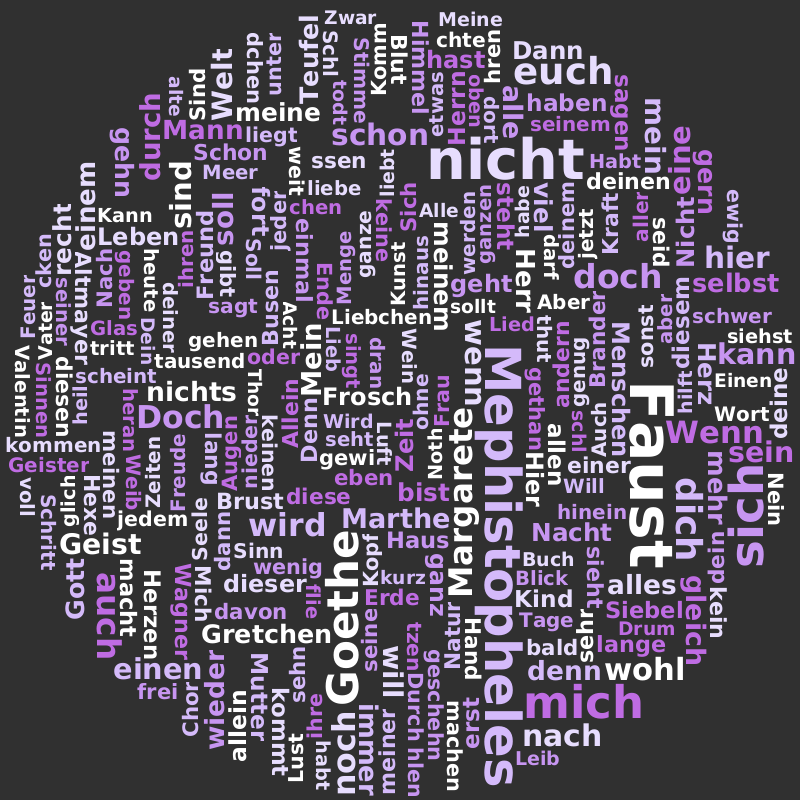
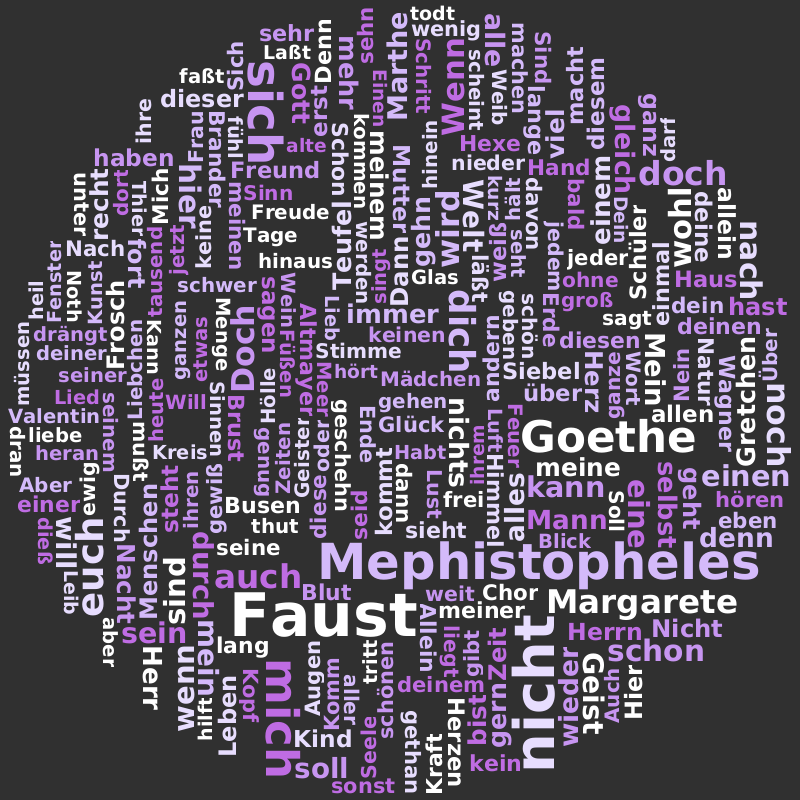
Finished batch

diff --git a/LambdaTagCloud/src/main/java/de/hs_mannheim/informatik/bdea/gruppe2/LambdaTagCloud/service/BatchService.java b/LambdaTagCloud/src/main/java/de/hs_mannheim/informatik/bdea/gruppe2/LambdaTagCloud/service/BatchService.java
@@ -22,105 +22,115 @@ import scala.Tuple2;
 @Service
 public class BatchService {
 
-    private final WordRepository wordRepository;
-    private final FileService fileService;
-    private final TagCloudService tagCloudService;
-    private final SparkSession sparkSession;
+        private final WordRepository wordRepository;
+        private final FileService fileService;
+        private final TagCloudService tagCloudService;
+        private final SparkSession sparkSession;
 
-    public BatchService(WordRepository wordRepository, FileService fileService, TagCloudService tagCloudService) {
-        this.wordRepository = wordRepository;
-        this.fileService = fileService;
-        this.tagCloudService = tagCloudService;
-        this.sparkSession = SparkSession.builder()
-                .master("local")
-                .appName("MongoSparkConnectorIntro")
-                .config("spark.mongodb.read.connection.uri",
-                        "mongodb://root:root@mongo/tagclouds.WordEntry?authSource=admin")
-                .config("spark.mongodb.write.connection.uri",
-                        "mongodb://root:root@mongo/tagclouds.WordEntry?authSource=admin")
-                .getOrCreate();
-    }
-
-    public List<Tuple2<String, Double>> runTfIdfJob(String filename) throws IOException {
-        Dataset<String> data = sparkSession.read().option("wholetext", "true").textFile(FileService.FILE_PATH + filename + ".txt");
-        final long amountOfFiles = this.fileService.getAllDocuments().length;
-        Dataset<Row> termFrequencyDataFrame = data
-                .flatMap((FlatMapFunction<String,String>) row -> {
-                        String[] words = row.split("\\W+");
-                        List<String> wordList = new ArrayList<>();
-                        for(String word : words) {
-                                if(word.length() >= 4)
-                                        wordList.add(word);
-                        }
-                        return wordList.iterator();
-                }, Encoders.STRING()).groupBy(functions.col("value")).count().orderBy(functions.desc("count")).limit(300).withColumnRenamed("value","name").withColumnRenamed("count", "termFrequency").toDF();
-
-        termFrequencyDataFrame.show();
-        Dataset<Row> documentFrequencies = sparkSession.read().format("mongodb").load();
-        // Creates default documentFrequency and name column if database is empty.
-        // This allows joining the data frames later.
-        if (!Arrays.asList(documentFrequencies.schema().fieldNames()).contains("name")) {
-            documentFrequencies = documentFrequencies.withColumn("name", functions.lit("default"))
-                    .withColumn("documentFrequency", functions.lit(1));
+        public BatchService(WordRepository wordRepository, FileService fileService, TagCloudService tagCloudService) {
+                this.wordRepository = wordRepository;
+                this.fileService = fileService;
+                this.tagCloudService = tagCloudService;
+                this.sparkSession = SparkSession.builder()
+                                .master("local")
+                                .appName("MongoSparkConnectorIntro")
+                                .config("spark.mongodb.read.connection.uri",
+                                                "mongodb://root:root@mongo/tagclouds.WordEntry?authSource=admin")
+                                .config("spark.mongodb.write.connection.uri",
+                                                "mongodb://root:root@mongo/tagclouds.WordEntry?authSource=admin")
+                                .getOrCreate();
         }
-        documentFrequencies.show();
-        // Join term frequencies and document frequencies and add document frequency 1 to
-        // all empty rows.
-        termFrequencyDataFrame = termFrequencyDataFrame.join(documentFrequencies, "name", "left_outer");
-        termFrequencyDataFrame = termFrequencyDataFrame.withColumn(
-                "documentFrequency",
-                functions.coalesce(termFrequencyDataFrame.col("documentFrequency"), functions.lit(1)));
 
-        // Calculate tf_idf with formula tfidf = (Log(amountOfDocuments /
-        // documentFrequency) + 1) * termFrequency
-        // This is called tf idf smooth.
-        Dataset<Row> termFrequencyDataFrameTfIdf = termFrequencyDataFrame.withColumn("tfIdf",
-                functions.log(functions.lit(amountOfFiles).divide(termFrequencyDataFrame.col("documentFrequency")))
-                        .plus(1)
-                        .multiply(termFrequencyDataFrame.col("termFrequency")));
-            
-        termFrequencyDataFrameTfIdf.show();
+        public List<Tuple2<String, Double>> runTfIdfJob(String filename) throws IOException {
+                Dataset<String> data = sparkSession.read().option("wholetext", "true")
+                                .textFile(FileService.FILE_PATH + filename + ".txt");
+                final long amountOfFiles = this.fileService.getAllDocuments().length;
+                Dataset<Row> termFrequencyDataFrame = data
+                                .flatMap((FlatMapFunction<String, String>) row -> {
+                                        // Split all words and allow only words with more than 3 characters
+                                        System.out.println(row);
+                                        String[] words = row.split("[^\\p{L}]+");
+                                        List<String> wordList = new ArrayList<>();
+                                        for (String word : words) {
+                                                if (word.length() >= 4)
+                                                        wordList.add(word);
+                                        }
+                                        return wordList.iterator();
+                                }, Encoders.STRING()).groupBy(functions.col("value")).count()
+                                .orderBy(functions.desc("count")).limit(300).withColumnRenamed("value", "name")
+                                .withColumnRenamed("count", "termFrequency").toDF();
 
-        return termFrequencyDataFrameTfIdf.select("name", "tfIdf")
-                .as(Encoders.tuple(Encoders.STRING(), Encoders.DOUBLE()))
-                .collectAsList();
-    }
+                termFrequencyDataFrame.show();
+                Dataset<Row> documentFrequencies = sparkSession.read().format("mongodb").load();
+                // Creates default documentFrequency and name column if database is empty.
+                // This allows joining the data frames later.
+                if (!Arrays.asList(documentFrequencies.schema().fieldNames()).contains("name")) {
+                        documentFrequencies = documentFrequencies.withColumn("name", functions.lit("default"))
+                                        .withColumn("documentFrequency", functions.lit(1));
+                }
+                documentFrequencies.show();
+                // Join term frequencies and document frequencies and add document frequency 1
+                // to
+                // all empty rows.
+                termFrequencyDataFrame = termFrequencyDataFrame.join(documentFrequencies, "name", "left_outer");
+                termFrequencyDataFrame = termFrequencyDataFrame.withColumn(
+                                "documentFrequency",
+                                functions.coalesce(termFrequencyDataFrame.col("documentFrequency"), functions.lit(1)));
 
-    public void calculateDocumentFrequency() throws IOException {
+                // Calculate tf_idf with formula tfidf = (Log(amountOfDocuments /
+                // documentFrequency) + 1) * termFrequency
+                // This is called tf idf smooth
+                Dataset<Row> termFrequencyDataFrameTfIdf = termFrequencyDataFrame.withColumn("tfIdf",
+                                functions.log(functions.lit(amountOfFiles)
+                                                .divide(termFrequencyDataFrame.col("documentFrequency")))
+                                                .plus(1)
+                                                .multiply(termFrequencyDataFrame.col("termFrequency")));
 
-        // Read all files as strings (wholetext is important here!)
-        Dataset<String> data = sparkSession.read().option("wholetext", "true").textFile("files/*.txt");
-        // Create DataSet which contains all document frequencies for each word grouped by word.
-        Dataset<Row> documentFrequencies = data
-                .flatMap((FlatMapFunction<String,String>) row -> {
-                        // Split all words and fill into set
-                        Set<String> set = new HashSet<>();
-                        String[] words = row.split("\\W+");
-                        for(String word : words) {
-                                set.add(word);
-                        }
-                        return set.iterator();
-                }, Encoders.STRING()).groupBy(functions.col("value")).count().toDF();
-        
-        documentFrequencies = documentFrequencies.withColumnRenamed("value", "name").withColumnRenamed("count", "documentFrequency");
-        documentFrequencies.show();
+                termFrequencyDataFrameTfIdf.show();
 
-        documentFrequencies.write().format("mongodb").mode("overwrite").save();
-
-        this.calculateAllDocuments();
-        this.getGlobalTfIdf();
-    }
-
-    public void calculateAllDocuments() throws IOException {
-        for(File file : this.fileService.getAllDocuments()) {
-                String fileName = file.getName().replace(".txt", "");
-                List<Tuple2<String,Double>> tfIdfList = this.runTfIdfJob(fileName);
-                this.tagCloudService.createTagCloud(fileName,tfIdfList);
+                // Map result to tuple
+                return termFrequencyDataFrameTfIdf.select("name", "tfIdf")
+                                .as(Encoders.tuple(Encoders.STRING(), Encoders.DOUBLE()))
+                                .collectAsList();
         }
-    }
 
-    public void getGlobalTfIdf() throws IOException {
-        List<Tuple2<String,Double>> tfIdfList = this.runTfIdfJob("*");
-        this.tagCloudService.createTagCloud("global",tfIdfList);
-    }
+        public void runBatch() throws IOException {
+
+                // Read all files as strings (wholetext is important here!)
+                Dataset<String> data = sparkSession.read().option("wholetext", "true").textFile("files/*.txt");
+                // Create DataSet which contains all document frequencies for each word grouped
+                // by word.
+                Dataset<Row> documentFrequencies = data
+                                .flatMap((FlatMapFunction<String, String>) row -> {
+                                        // Split all words and fill into set
+                                        Set<String> set = new HashSet<>();
+                                        String[] words = row.split("\\W+");
+                                        for (String word : words) {
+                                                set.add(word);
+                                        }
+                                        return set.iterator();
+                                }, Encoders.STRING()).groupBy(functions.col("value")).count().toDF();
+
+                documentFrequencies = documentFrequencies.withColumnRenamed("value", "name").withColumnRenamed("count",
+                                "documentFrequency");
+                documentFrequencies.show();
+
+                documentFrequencies.write().format("mongodb").mode("overwrite").save();
+
+                this.calculateAllDocuments();
+                this.calculateGlobalTfIdf();
+        }
+
+        public void calculateAllDocuments() throws IOException {
+                for (File file : this.fileService.getAllDocuments()) {
+                        String fileName = file.getName().replace(".txt", "");
+                        List<Tuple2<String, Double>> tfIdfList = this.runTfIdfJob(fileName);
+                        this.tagCloudService.createTagCloud(fileName, tfIdfList);
+                }
+        }
+
+        public void calculateGlobalTfIdf() throws IOException {
+                List<Tuple2<String, Double>> tfIdfList = this.runTfIdfJob("*");
+                this.tagCloudService.createTagCloud("global", tfIdfList);
+        }
 }

diff --git a/LambdaTagCloud/src/main/java/de/hs_mannheim/informatik/bdea/gruppe2/LambdaTagCloud/controller/TagCloudController.java b/LambdaTagCloud/src/main/java/de/hs_mannheim/informatik/bdea/gruppe2/LambdaTagCloud/controller/TagCloudController.java
@@ -54,11 +54,8 @@ public class TagCloudController {
 
   @GetMapping("/Batch")
   public String startBatch() throws IOException {
-    // this.batchService.startBatch();
-    // this.batchService.getTfIdfList("Hallo, hier sind Joel unddd Jan unddd wir werden jetzt voll krass sparken!");
-    // // this.batchService.countWords();
-    this.batchService.calculateDocumentFrequency();
-    return "Started batch";
+    this.batchService.runBatch();
+    return "Finished Batch";
   }
 
   @ExceptionHandler(IOException.class)

diff --git a/LambdaTagCloud/src/main/java/de/hs_mannheim/informatik/bdea/gruppe2/LambdaTagCloud/service/DocumentAnalyzerService.java b/LambdaTagCloud/src/main/java/de/hs_mannheim/informatik/bdea/gruppe2/LambdaTagCloud/service/DocumentAnalyzerService.java
@@ -15,6 +15,10 @@ import de.hs_mannheim.informatik.bdea.gruppe2.LambdaTagCloud.model.WordEntry;
 @Service
 public class DocumentAnalyzerService {
 
+  /**
+   * This class is not in use. It could be used as speed layer instead of a spark job.
+   */
+
   private final WordRepository wordRepository;
   private final FileService fileService;
 
